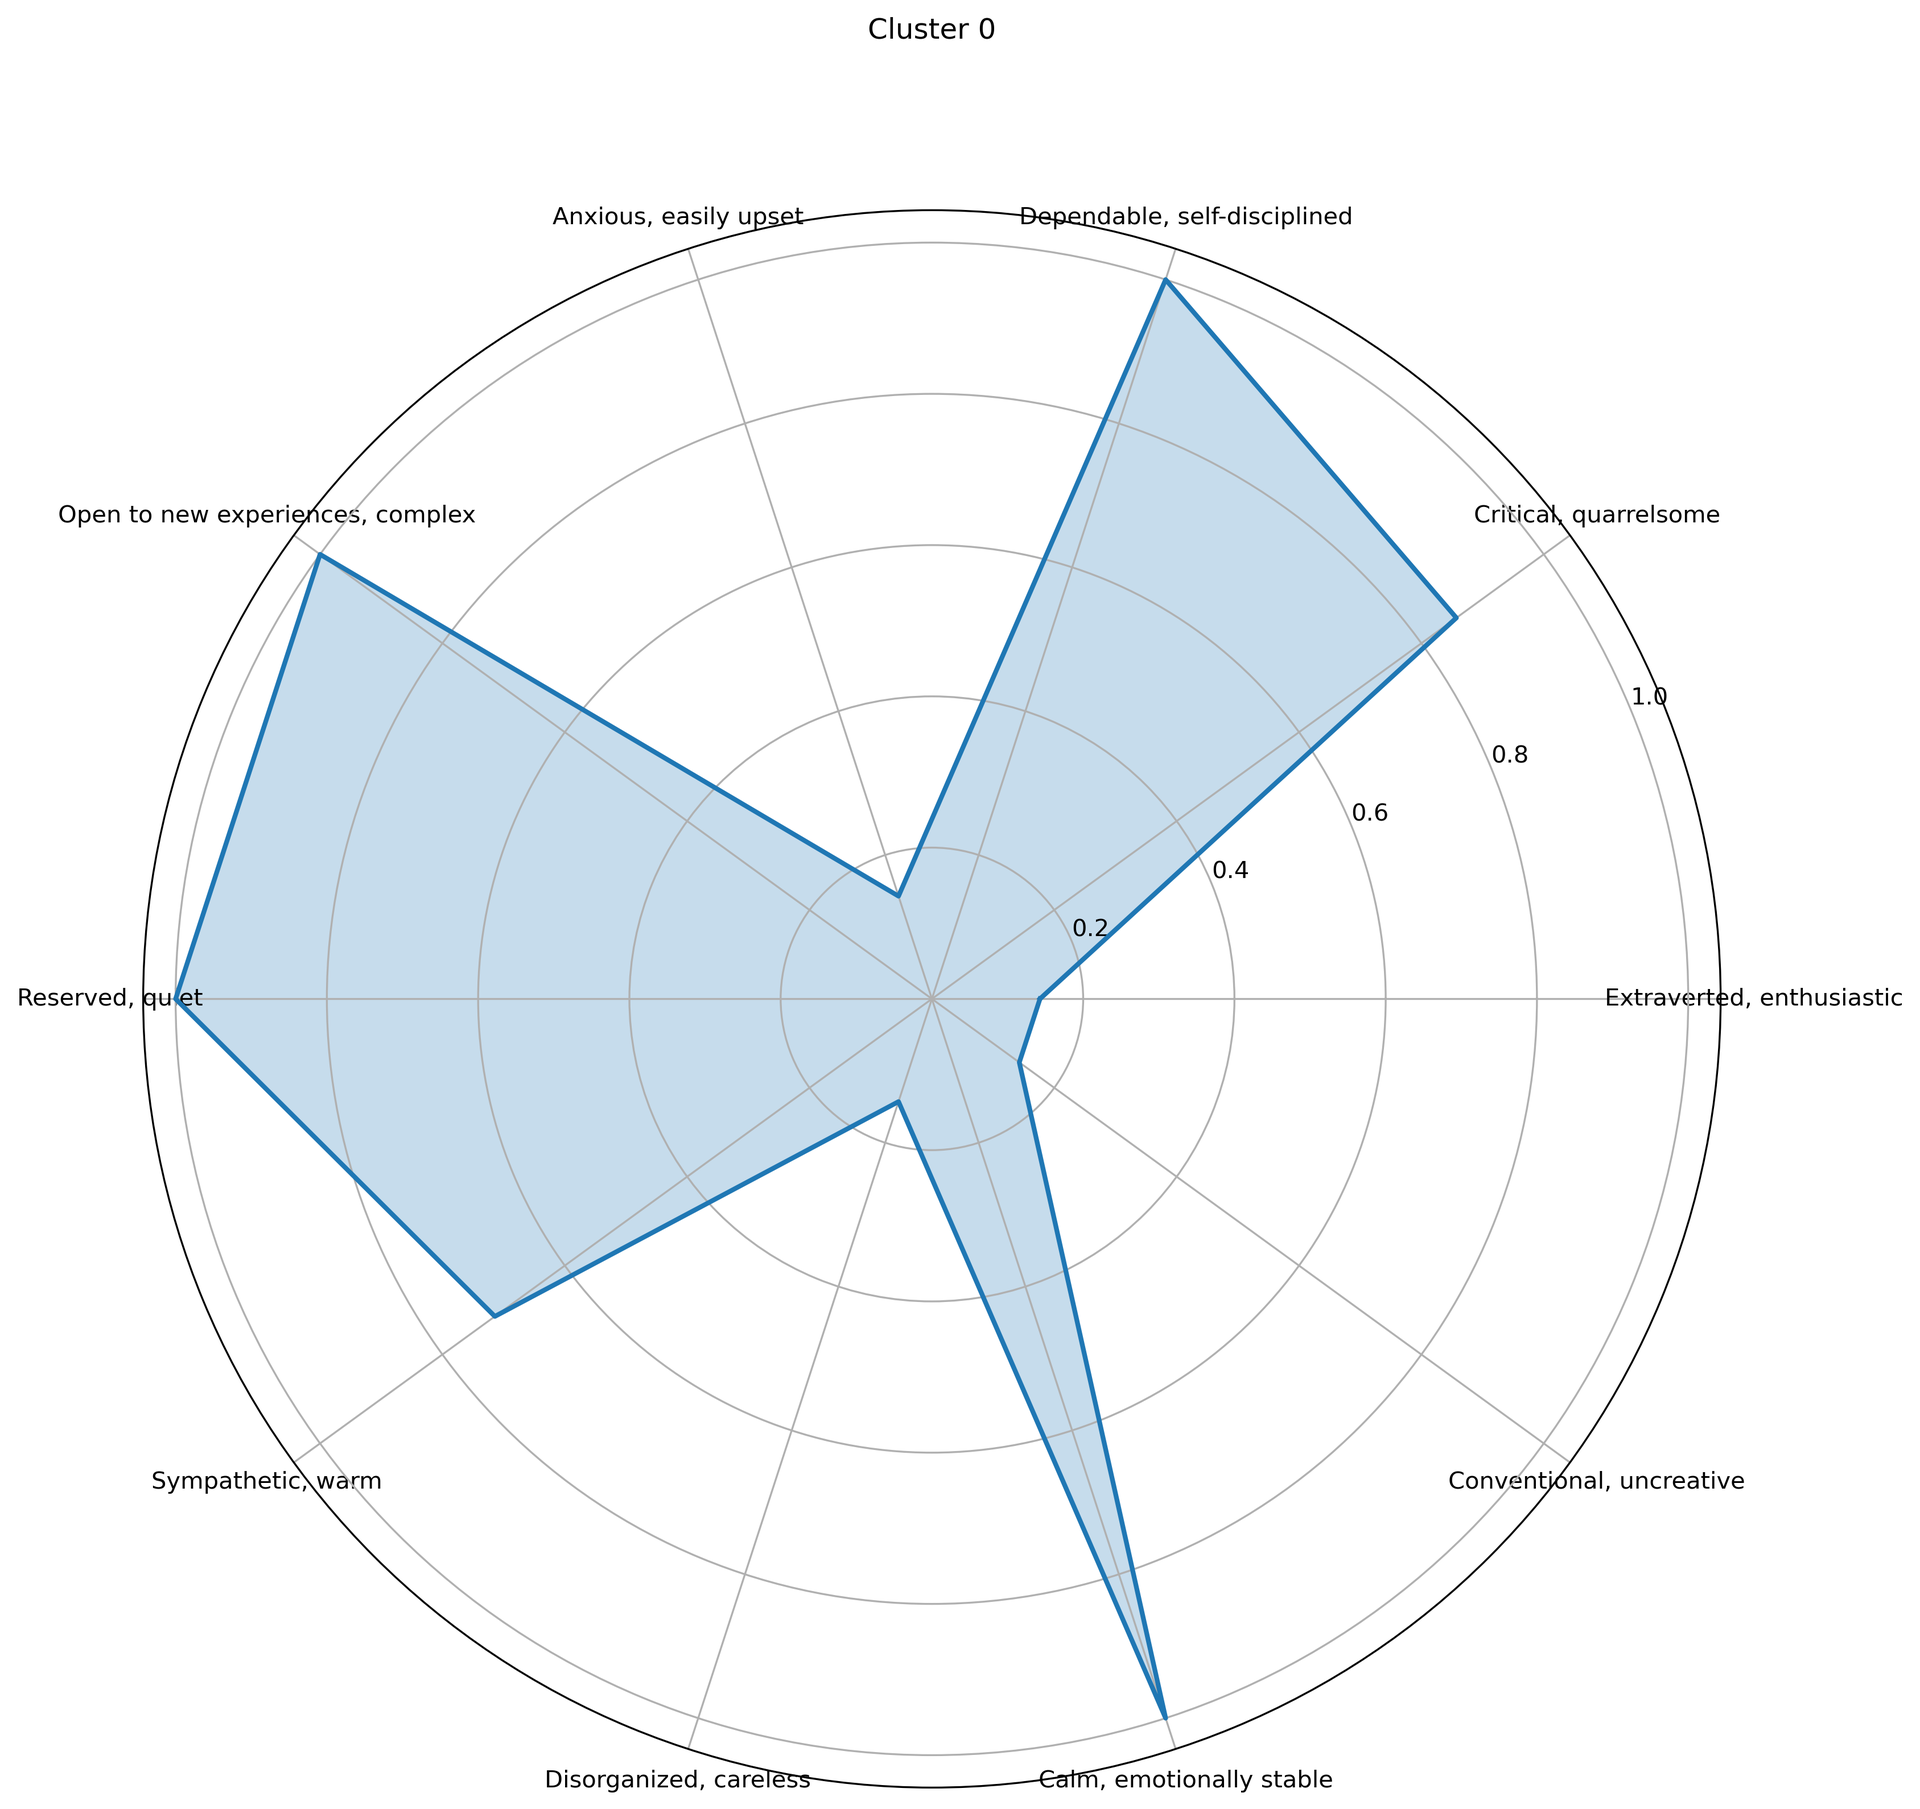
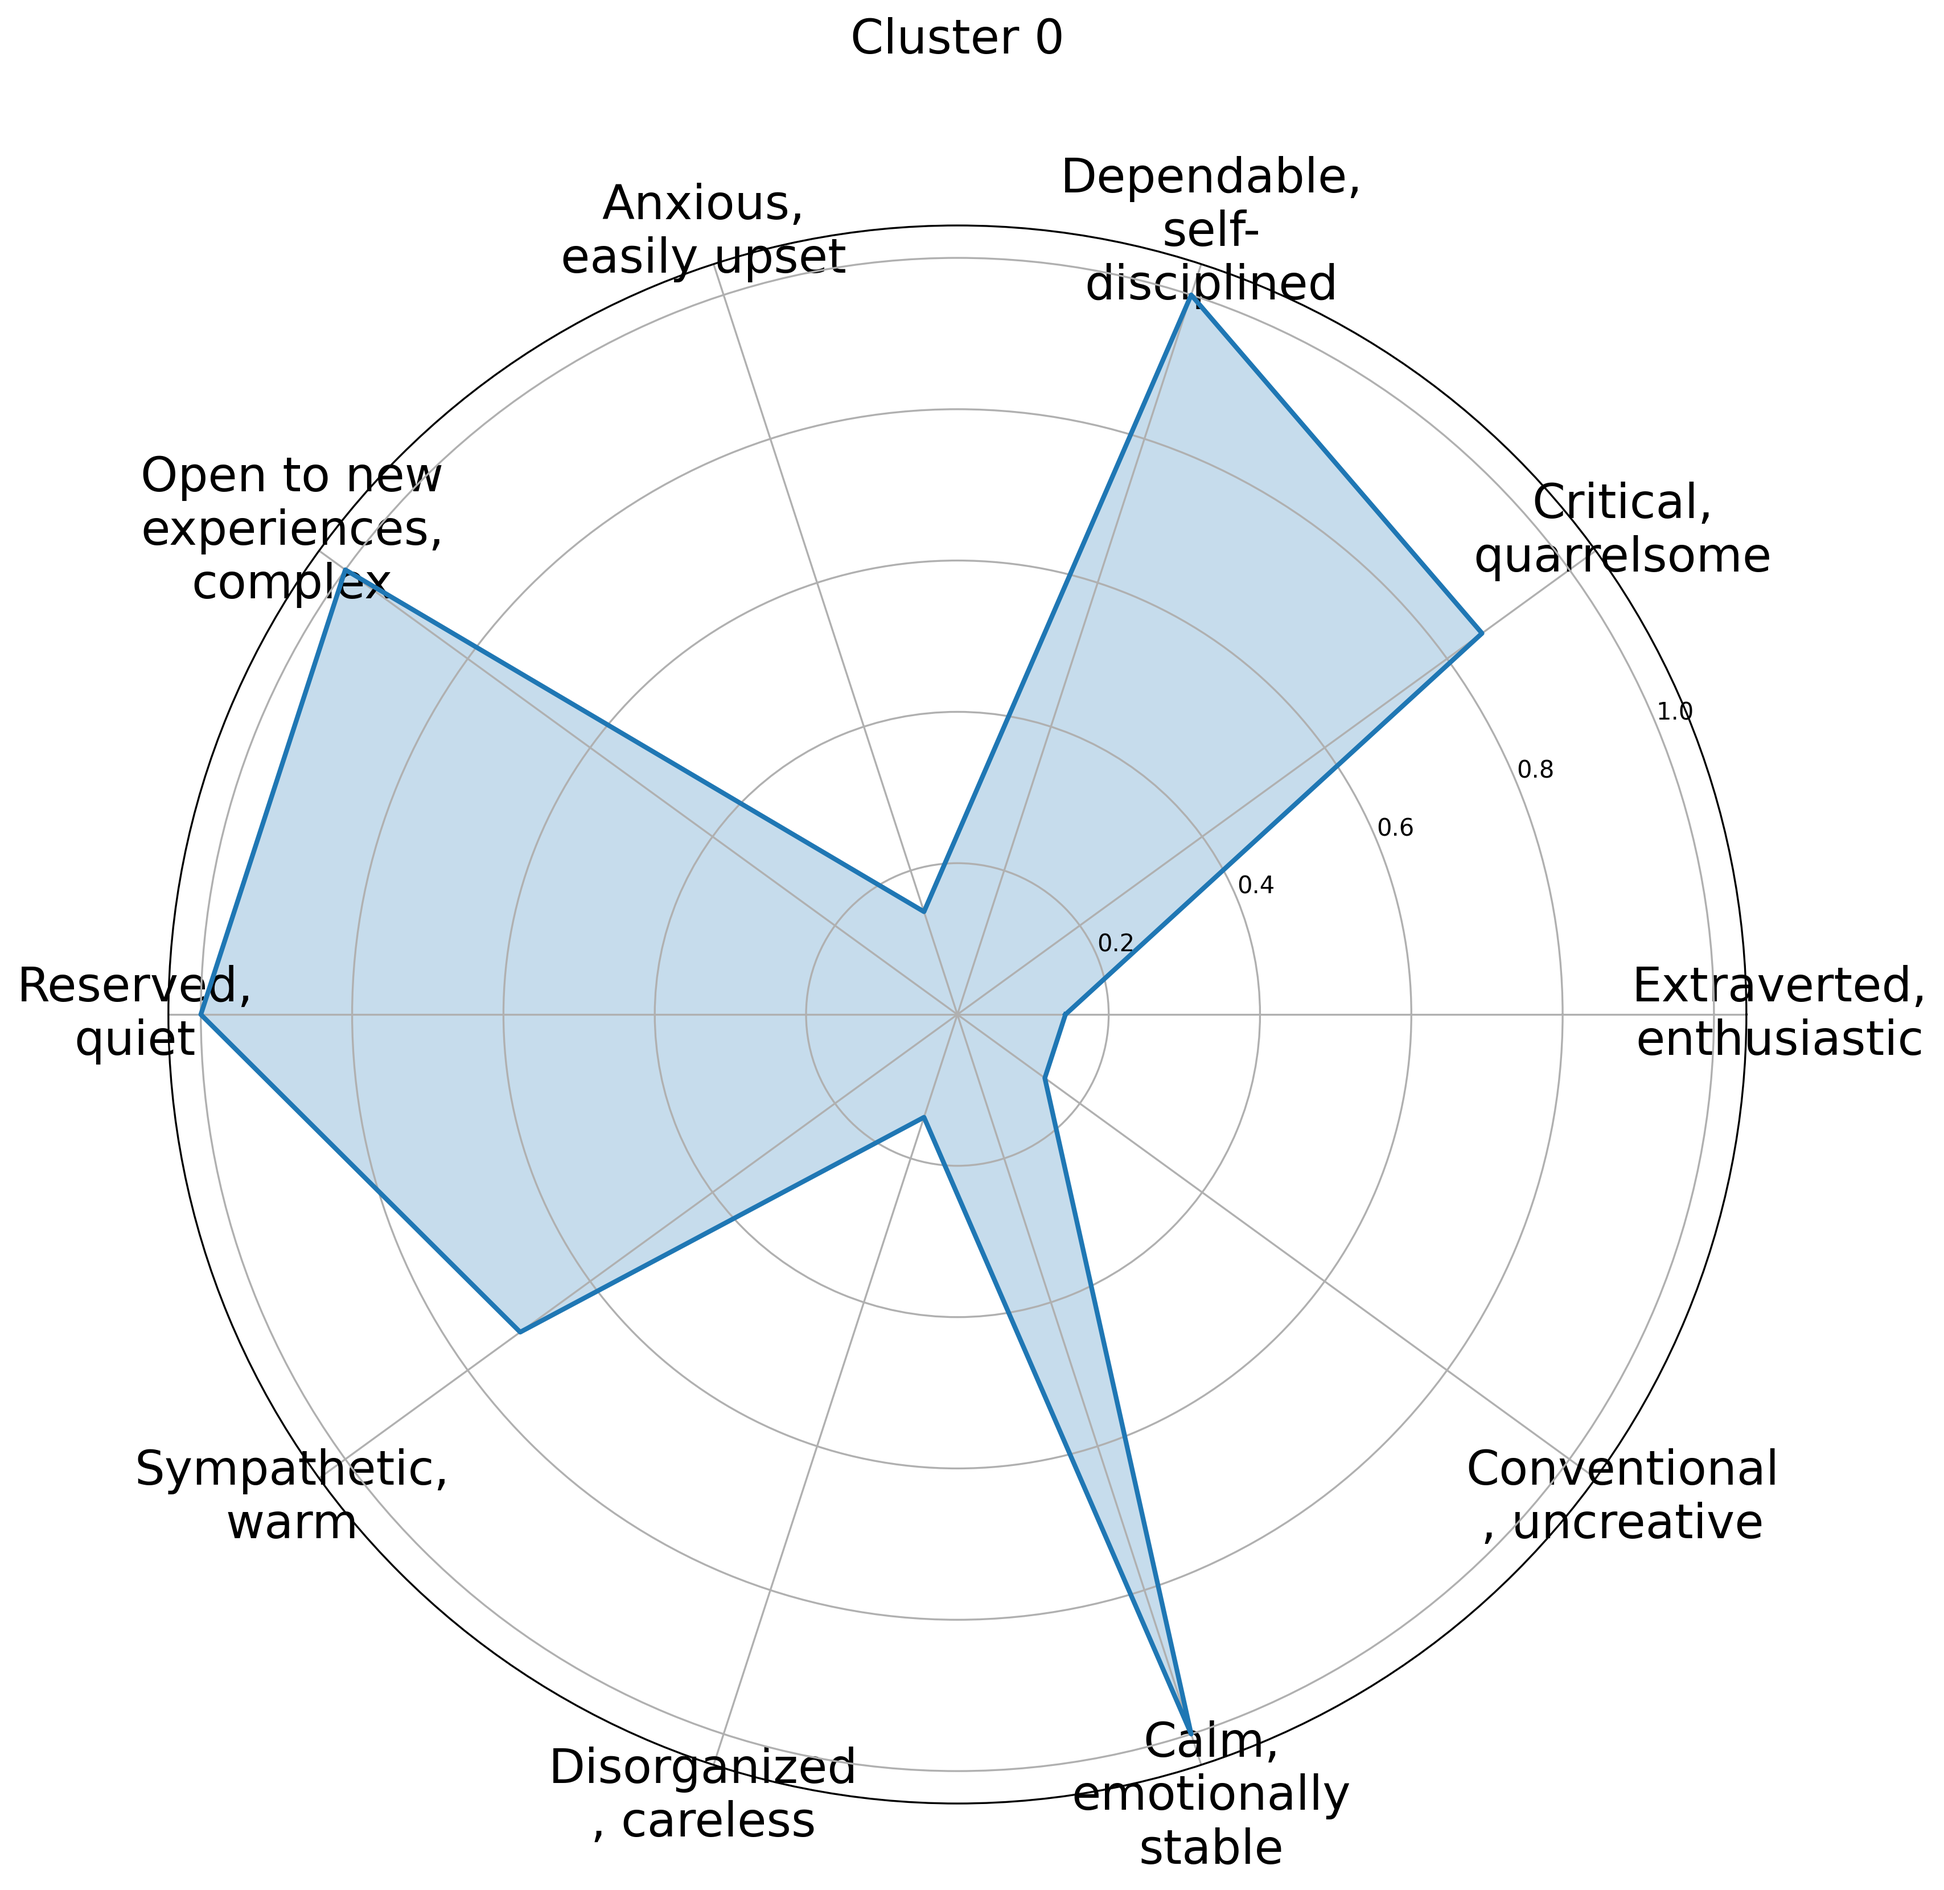
Update radar plot fontsize on site

diff --git a/cluster_analysis/pipelineio/visualization.py b/cluster_analysis/pipelineio/visualization.py
@@ -6,6 +6,7 @@ from sklearn.cluster import KMeans
 from sklearn.decomposition import PCA
 from .io_utils import save_fig
 from setup.config import QUESTION_COLS
+import textwrap
 
 def plot_pca_clusters(X: pd.DataFrame,
                       filename: str, 
@@ -66,8 +67,11 @@ def radar_chart(attributes, scores, title="Radar Chart"):
 
     # Add attribute labels
     ax.set_xticks(angles[:-1])
-    ax.set_xticklabels(attributes)
 
-    ax.set_title(title, y=1.1)
+    wrapped = ["\n".join(textwrap.wrap(l, 12)) for l in attributes]
+    ax.set_xticklabels(wrapped, fontsize=20)
+
+
+    ax.set_title(title, y=1.1, fontsize=20)
 
     save_fig(fig, "plots", "radar", f"{title.replace(" ", "_")}.png")
